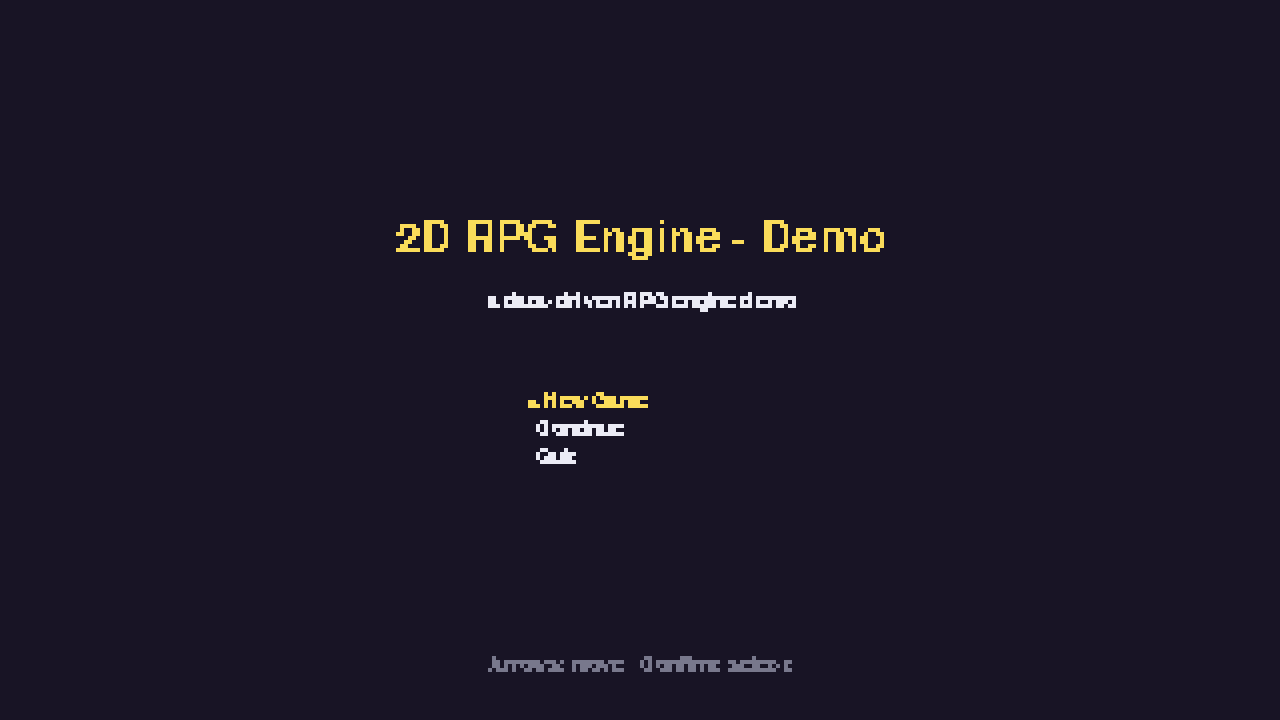
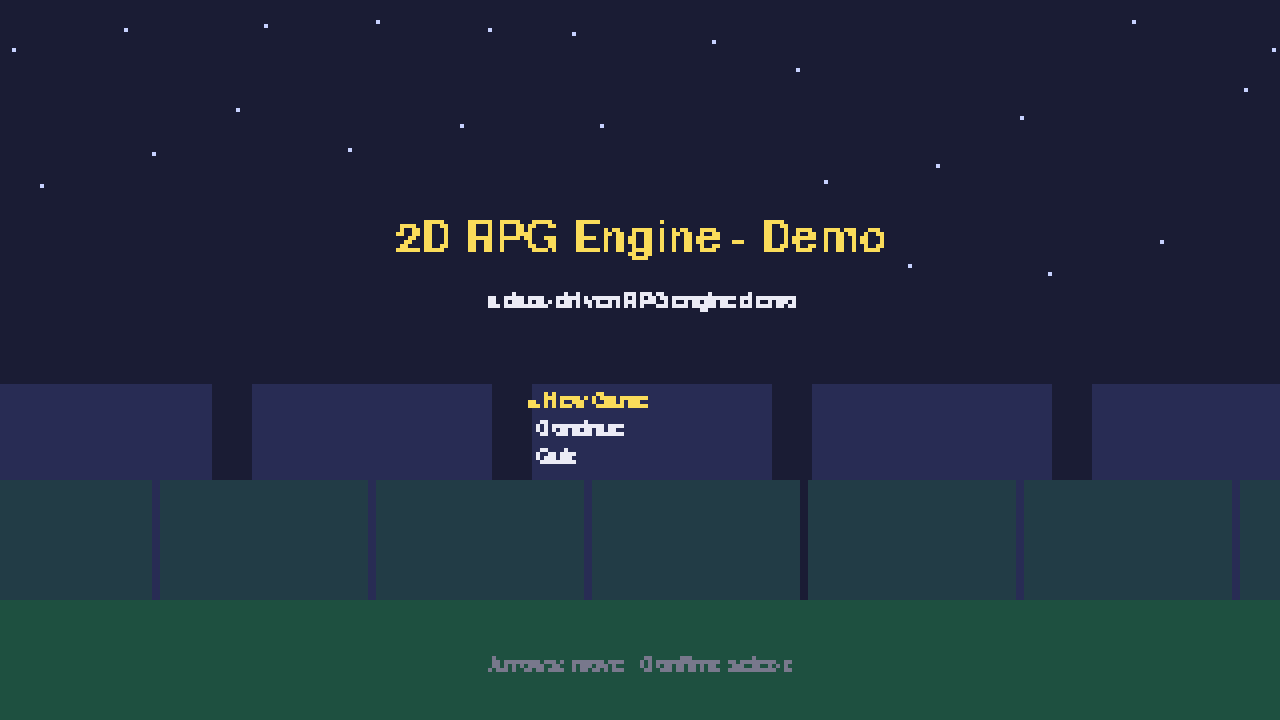
Gen2 Phase C: parallax backgrounds + battle screen-shake
- engine/graphics/parallax.py: multi-layer parallax with per-layer scroll 'factor'
  (data-driven); generated layer kinds (fill/band/bumps/dots) or images. Visible
  wherever the world above is transparent
- Title screen gets a scrolling parallax backdrop (data/parallax/title.json:
  starfield + 3 hill layers at different speeds)
- Screen shake on turn-based battle attacks (polish)

Claude-Session: https://claude.ai/code/session_01FnZYrLkUu1hmMnYcQeRe9X

diff --git a/engine/graphics/parallax.py b/engine/graphics/parallax.py
@@ -1,0 +1,91 @@
+"""
+engine.graphics.parallax
+======================
+Multi-layer parallax backgrounds with per-layer scroll speed (data-driven).
+
+A background is a list of layers, each a dict in data; the layer's ``factor`` is
+how fast it scrolls relative to the camera (0 = fixed sky, 1 = moves with the
+world). Layer kinds (art-free, generated -- or supply an ``image``):
+
+    {"kind": "fill",  "color": [...]}                      full-screen sky
+    {"kind": "band",  "color": [...], "y": .., "height": ..} a horizontal band
+    {"kind": "bumps", "color": [...], "y": .., "radius": .., "spacing": .., "factor": ..}
+                                                            repeating hills/blobs
+    {"kind": "dots",  "color": [...], "y": .., "y2": .., "size": .., "spacing": .., "factor": ..}
+                                                            stars / specks
+    {"kind": "image", "image": "sky.png", "y": .., "factor": .., "repeat": true}
+
+Draw it on the ``background`` render layer (behind tiles): pass a scroll value
+(camera x for a map, or time-based for a title screen). Visible wherever the world
+above is transparent -- ideal for title screens, vistas, and side-scrollers.
+"""
+
+from __future__ import annotations
+
+import random
+from typing import List
+
+import pygame
+
+
+class ParallaxBackground:
+    def __init__(self, layers: List[dict], assets=None) -> None:
+        self.layers = layers or []
+        self.assets = assets
+
+    def draw(self, renderer, scroll_x: float, scroll_y: float = 0.0,
+             layer: str = "background") -> None:
+        bw, bh = renderer.base_size
+        for L in self.layers:
+            kind = L.get("kind", "fill")
+            color = tuple(L.get("color", [0, 0, 0]))
+            factor = L.get("factor", 0.0)
+            off = scroll_x * factor
+
+            if kind == "fill":
+                renderer.draw_rect((0, 0, bw, bh), color, layer=layer, world=False)
+            elif kind == "band":
+                renderer.draw_rect((0, L.get("y", 0), bw, L.get("height", bh)), color,
+                                   layer=layer, world=False)
+            elif kind == "bumps":
+                self._bumps(renderer, L, color, off, bw, bh, layer)
+            elif kind == "dots":
+                self._dots(renderer, L, color, off, bw, layer)
+            elif kind == "image" and self.assets is not None:
+                self._image(renderer, L, off, bw, layer)
+
+    def _bumps(self, renderer, L, color, off, bw, bh, layer):
+        spacing = L.get("spacing", 48)
+        radius = L.get("radius", 24)
+        y = L.get("y", bh - 20)
+        start = -(off % spacing)
+        x = start - spacing
+        while x < bw + spacing:
+            # A filled "hill" (half-blob): a square + circle reads as pixel-art.
+            renderer.draw_rect((x, y, radius * 2, radius * 2), color, layer=layer, world=False)
+            x += spacing
+
+    def _dots(self, renderer, L, color, off, bw, layer):
+        spacing = L.get("spacing", 20)
+        size = L.get("size", 1)
+        y1, y2 = L.get("y", 4), L.get("y2", 60)
+        rnd = random.Random(L.get("seed", 1))
+        start = -(off % spacing)
+        x = start - spacing
+        i = 0
+        while x < bw + spacing:
+            yy = y1 + (rnd.random() * (y2 - y1))
+            renderer.draw_rect((x + (i * 7 % spacing), yy, size, size), color,
+                               layer=layer, world=False)
+            x += spacing
+            i += 1
+
+    def _image(self, renderer, L, off, bw, layer):
+        img = self.assets.get_image(L["image"])
+        iw = img.get_width()
+        y = L.get("y", 0)
+        start = -(off % iw)
+        x = start - iw
+        while x < bw + iw:
+            renderer.draw_image(img, x, y, layer=layer, world=False)
+            x += iw

diff --git a/game/scenes/title_scene.py b/game/scenes/title_scene.py
@@ -7,7 +7,10 @@ Game creates a fresh GameState; Continue loads slot 1; Quit exits.
 
 from __future__ import annotations
 
+import os
+
 from engine.core.scene import Scene
+from engine.graphics.parallax import ParallaxBackground
 from engine.ui.menu import Menu, MenuItem
 from game.state import GameState
 
@@ -24,7 +27,15 @@ class TitleScene(Scene):
             MenuItem("Quit", "quit"),
         ], self.style)
 
+        # Auto-scrolling parallax backdrop (data-driven).
+        self.scroll = 0.0
+        self.parallax = None
+        path = os.path.join(g.settings.get("game.data_path", "data"), "parallax", "title.json")
+        if os.path.isfile(path):
+            self.parallax = ParallaxBackground(g.assets.load_json(path).get("layers", []), g.assets)
+
     def update(self, dt: float) -> None:
+        self.scroll += dt * 18  # drift the backdrop
         inp = self.game.input
         if inp.just_pressed("up"):
             self.menu.move(-1)
@@ -52,6 +63,8 @@ class TitleScene(Scene):
     def draw(self, renderer) -> None:
         s = self.style
         bw, bh = renderer.base_size
+        if self.parallax is not None:
+            self.parallax.draw(renderer, self.scroll)
         title = self.game.settings.get("game.title", "RPG")
         renderer.draw_text(title, bw // 2, bh // 3, s.title_font, s.highlight_color,
                            layer="ui", world=False, anchor="center")

diff --git a/game/scenes/battle_scene.py b/game/scenes/battle_scene.py
@@ -94,6 +94,7 @@ class BattleScene(Scene):
             choice = self.command_menu.selected.value
             if choice == "attack":
                 self.game.audio.play_sound("hit.wav")
+                self.game.renderer.add_shake(2.0, 0.16)
                 self._enqueue(self.combat.player_attack())
             elif choice == "flee":
                 self._enqueue(self.combat.player_flee())
